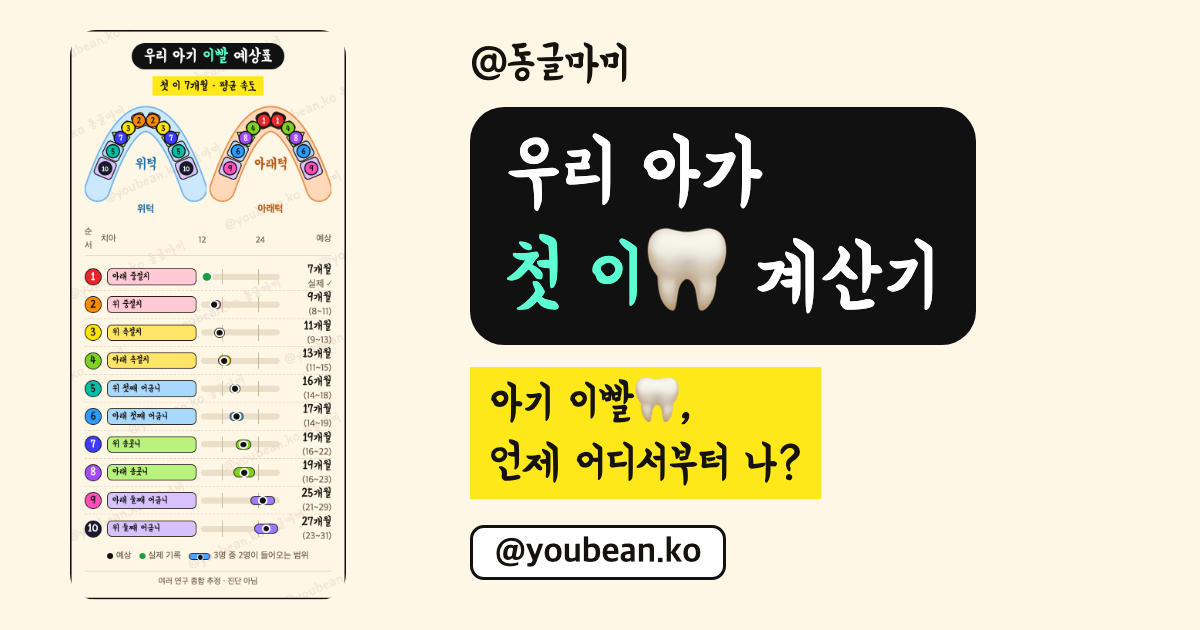
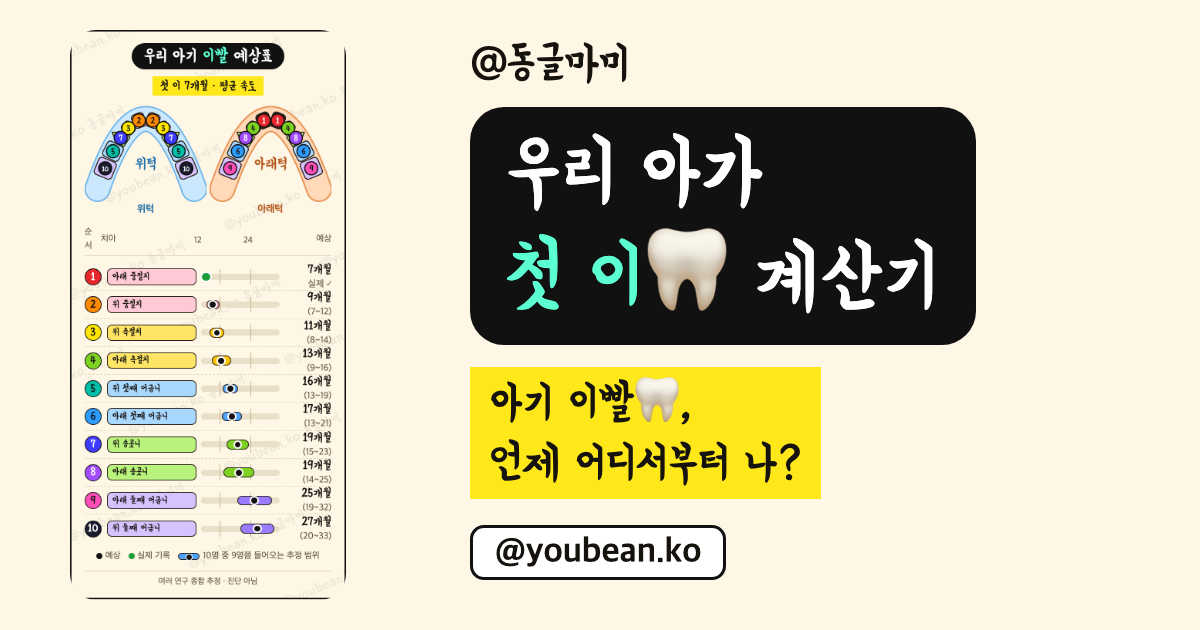
범위 표기: 막대 구간 90%(±1.645SD)로 확대, 축 35개월, 범례 문구

diff --git a/index.html b/index.html
@@ -235,7 +235,7 @@ ul.src{margin:0;padding-left:18px;display:flex;flex-direction:column;gap:4px;fon
       </div>
       <div class="c-head"><span>순서</span><span>치아</span><span class="ax" id="ax"></span><span>예상</span></div>
       <div class="c-rows" id="rows"></div>
-      <div class="c-note"><span><i style="background:#111"></i>예상</span><span><i style="background:#1B9E3A"></i>실제 기록</span><span><b class="lgb"></b>3명 중 2명이 들어오는 범위</span></div>
+      <div class="c-note"><span><i style="background:#111"></i>예상</span><span><i style="background:#1B9E3A"></i>실제 기록</span><span><b class="lgb"></b>10명 중 9명쯤 들어오는 추정 범위</span></div>
       <div class="c-foot"><span>여러 연구 종합 추정 · 진단 아님</span></div>
     </div>
     <div class="actions" id="actions"><button type="button" class="btn" id="imgbtn">📤 이미지 공유 · 저장</button><p class="note" id="hint">스토리에 올리고 @youbean.ko를 태그해 주세요</p></div>
@@ -249,7 +249,7 @@ ul.src{margin:0;padding-left:18px;display:flex;flex-direction:column;gap:4px;fon
         <li><b>치아별 평균 시기</b>: 한국·일본·중국 조사, 미국치과의사협회(ADA) 맹출표, 국제 메타분석에서 구한 값을 종합해 정했어요. 첫 이의 평균은 7개월로 정했어요(중국 전국조사 중앙값 6.6~6.8개월, 한국 아래 앞니 평균 7.5개월, 일본 아래 앞니 중앙값 7.1~7.6개월 사이).</li>
         <li><b>우리 아기 속도</b>: 첫 이가 평균(7개월)보다 N개월 빠르면, 나머지 이의 예상 시기도 치아에 따라 N개월의 약 0.6~0.9배만큼 당겨져요. 느리면 같은 비율로 늦춰져요. 이 비율은 '상관 × (그 이의 개인차 ÷ 첫 이의 개인차)'로 구했고, 첫 이의 개인차는 한국 아래 앞니 표준편차 1.77개월에 맞춰 1.8개월로 썼어요.</li>
         <li><b>상관값</b>: 유치끼리 맹출 시기의 상관은 1이 아니라서, 첫 이의 차이를 그대로 옮기지 않고 위 비율로만 반영해요. 상관은 0.3~0.7 범위를 썼고, 나오는 순서 1번 이에 0.7, 10번 이에 0.3을 적용했어요. 그 사이 이들은 순서대로 같은 간격으로 줄였어요. 치아별 상관값을 직접 쓴 것은 아니에요.</li>
-        <li><b>막대 구간</b>: 예상값 ± 표준편차 1만큼이에요. 표준편차는 한국 영유아 조사(n=1,757)의 치아별 개인차에, 첫 이와의 상관을 반영해 줄인 값이에요. 값이 종 모양(정규분포)으로 퍼져 있다면 약 68%, 대략 3명 중 2명이 들어가는 폭이에요. 뒤쪽 이일수록 넓어요.</li>
+        <li><b>막대 구간</b>: 예상값 ± 표준편차 1.645배만큼이에요. 표준편차는 한국 영유아 조사(n=1,757)의 치아별 개인차에, 첫 이와의 상관을 반영해 줄인 값이에요. 값이 종 모양(정규분포)으로 퍼져 있다고 가정하면 약 90%, 대략 10명 중 9명이 들어가는 폭이에요. 실제 아기들로 검증한 수치는 아니고 추정이에요. 뒤쪽 이일수록 넓어요.</li>
       </ol>
       <p class="note">정식 의료 도구가 아니라 위 자료로 만든 계산 모델이에요.</p>
       <ul class="src">
@@ -304,7 +304,8 @@ var COLORS = {central:'#FFC9D6', lateral:'#FFE566', canine:'#B9F27C', m1:'#A9D8F
 var SIZES = {central:[44,50], lateral:[38,46], canine:[40,52], m1:[58,62], m2:[64,66]};
 var ORDER_TYPES = ['central','lateral','canine','m1','m2'];
 var MU_F = 7.0, SD_F = 1.8;
-var AX_MIN = 5, AX_MAX = 31;
+var AX_MIN = 5, AX_MAX = 35;
+var Z90 = 1.645; /* 정규분포 가정 시 양쪽 90% 구간 */
 var SAT = {central:'#F48FB1', lateral:'#FFC400', canine:'#7ED321', m1:'#4DA3FF', m2:'#9B7BFF'};
 var INK = '#2B2118';
 var GUM = {u:['#6FB6EA','#CBE8FF'], l:['#E8914F','#FFD9B8']};
@@ -334,7 +335,7 @@ function compute(st){
     if (known[t.id] != null) return {t:t, actual:true, est:known[t.id], lo:known[t.id], hi:known[t.id]};
     var r = rho(t.k), beta = r * t.sd / SD_F, sdc = t.sd * Math.sqrt(1 - r * r);
     var est = Math.max(t1, t.mu + beta * d);
-    return {t:t, actual:false, est:est, lo:Math.max(t1, est - sdc), hi:est + sdc};
+    return {t:t, actual:false, est:est, lo:Math.max(t1, est - Z90 * sdc), hi:est + Z90 * sdc};
   });
   return {d:d, rows:rows};
 }
